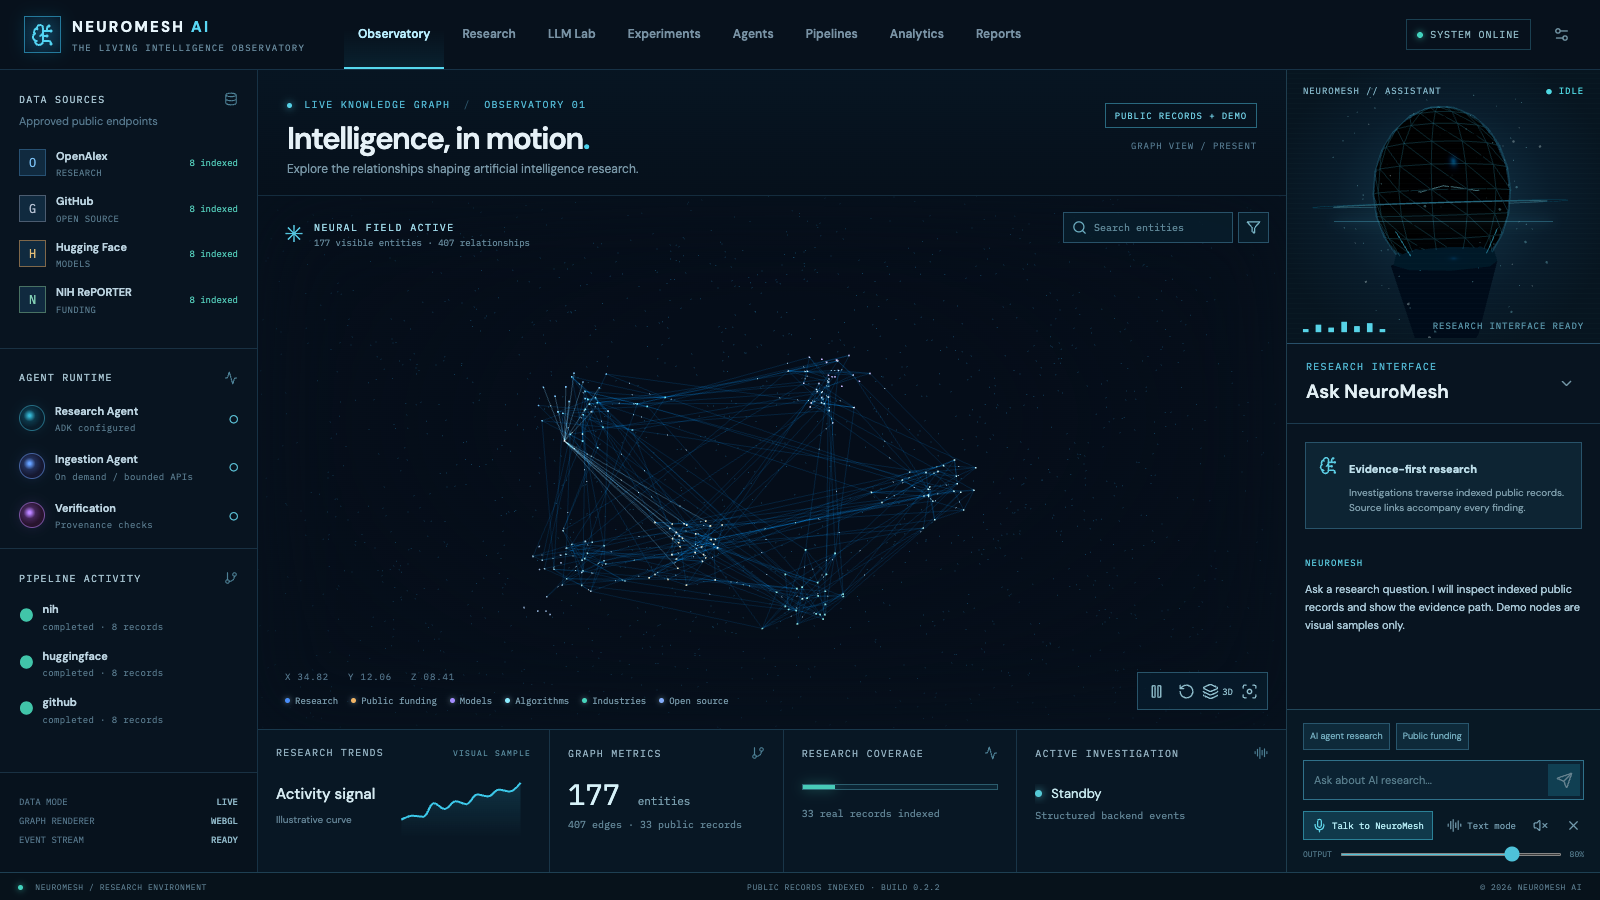
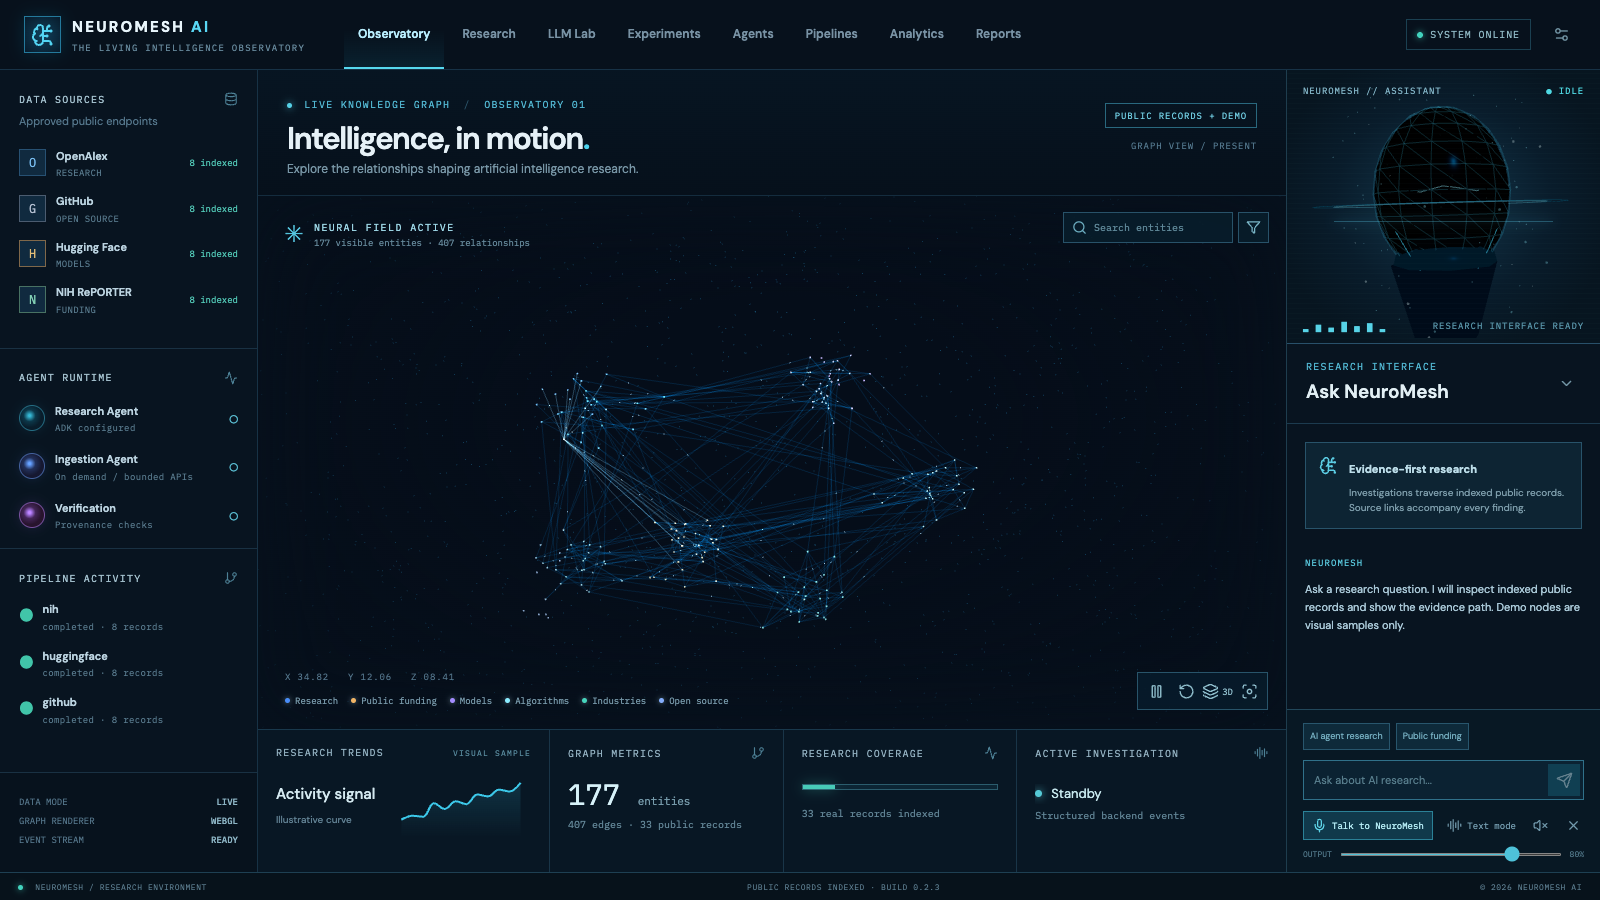
Keep microphone listening through transient recognition failures

Changed region(s): [[0.3438, 0.4044, 0.5938, 0.6844]]

diff --git a/apps/web/src/App.tsx b/apps/web/src/App.tsx
@@ -13,7 +13,7 @@ const kindLabels: Record<string,string>={PAPER:'Research',GRANT:'Public funding'
 const kindColors: Record<string,string>={PAPER:'#498df8',GRANT:'#f1b465',MODEL:'#a48cff',ALGORITHM:'#8cecff',INDUSTRY:'#46d4bc',REPOSITORY:'#84adfb',SCIENTIFIC_TOPIC:'#e3f4ff'};
 type Citation={label:string;url:string;source:string;entity_id:string};
 type Message={role:'user'|'assistant';text:string;citations?:Citation[]};
-type SpeechRecognitionLike={start:()=>void;stop:()=>void;lang?:string;onresult:((e:{results:{[key:number]:{[key:number]:{transcript:string}}}})=>void)|null;onerror:((e:{error?:string})=>void)|null;onend:(()=>void)|null};
+type SpeechRecognitionLike={start:()=>void;stop:()=>void;lang?:string;continuous?:boolean;interimResults?:boolean;onresult:((e:{resultIndex?:number;results:{[key:number]:{[key:number]:{transcript:string};isFinal?:boolean}}})=>void)|null;onerror:((e:{error?:string})=>void)|null;onend:(()=>void)|null};
 
 function useReducedMotion(){const [reduced,setReduced]=useState(window.matchMedia('(prefers-reduced-motion: reduce)').matches);useEffect(()=>{const q=window.matchMedia('(prefers-reduced-motion: reduce)');const f=()=>setReduced(q.matches);q.addEventListener('change',f);return()=>q.removeEventListener('change',f)},[]);return reduced;}
 
@@ -80,17 +80,19 @@ export default function App(){
       }
     }catch(error){if(controller.signal.aborted)return;setMessages(m=>[...m,{role:'assistant',text:error instanceof Error?error.message:'Investigation failed'}]);setAvatarState('error');setActiveStep('Investigation failed');setBusy(false)}
   };
-  const stop=()=>{abortRef.current?.abort();recognitionRef.current?.stop();speechStopRef.current?.();speechStopRef.current=null;window.speechSynthesis?.cancel();setSpeechLevel(0);setBusy(false);setAvatarState('interrupted');setActiveStep('Interrupted')};
+  const stop=()=>{abortRef.current?.abort();const recognition=recognitionRef.current;recognitionRef.current=null;recognition?.stop();speechStopRef.current?.();speechStopRef.current=null;window.speechSynthesis?.cancel();setSpeechLevel(0);setBusy(false);setAvatarState('interrupted');setActiveStep('Interrupted')};
   const microphone=()=>{
-    if(avatarState==='listening'){recognitionRef.current?.stop();setAvatarState('idle');return}
+    if(avatarState==='listening'){const recognition=recognitionRef.current;recognitionRef.current=null;recognition?.stop();setAvatarState('idle');setActiveStep('Microphone stopped');return}
     const w=window as typeof window & {SpeechRecognition?:new()=>SpeechRecognitionLike;webkitSpeechRecognition?:new()=>SpeechRecognitionLike};
     const Recognition=w.SpeechRecognition||w.webkitSpeechRecognition;
     if(!Recognition){setActiveStep('Speech recognition unavailable in this browser');setMessages(m=>[...m,{role:'assistant',text:'This browser does not support speech recognition. Try Chrome or type your question below.'}]);return}
-    stop();setVoiceMode(true);setMuted(false);const recognition=new Recognition();recognitionRef.current=recognition;recognition.lang='en-US';
-    recognition.onresult=e=>{const text=e.results[0]?.[0]?.transcript?.trim();if(!text)return;setAvatarState('thinking');void submit(text,true)};
-    recognition.onerror=e=>{setAvatarState('error');setActiveStep('Microphone request failed');setMessages(m=>[...m,{role:'assistant',text:e.error==='not-allowed'?'Microphone access was blocked. Allow it in your browser settings, then press Talk to NeuroMesh again.':'I could not hear that. Try the microphone again or type your question.'}])};
-    recognition.onend=()=>setAvatarState(s=>s==='listening'?'idle':s);
-    try{recognition.start();setAvatarState('listening');setActiveStep('Listening')}catch{setAvatarState('error');setActiveStep('Microphone unavailable');setMessages(m=>[...m,{role:'assistant',text:'Microphone could not start. Check browser permission and try again.'}])}
+    stop();setVoiceMode(true);setMuted(false);const recognition=new Recognition();recognitionRef.current=recognition;recognition.lang='en-US';recognition.continuous=true;recognition.interimResults=true;
+    const sessionStartedAt=Date.now();let startedAt=sessionStartedAt,earlyRestarts=0,silenceRestarts=0,noSpeech=false,failed=false;
+    const fail=(reason:string,message:string)=>{if(recognitionRef.current!==recognition)return;recognitionRef.current=null;failed=true;setAvatarState('error');setActiveStep(reason);setMessages(m=>[...m,{role:'assistant',text:message}])};
+    recognition.onresult=e=>{if(recognitionRef.current!==recognition)return;const result=e.results[e.resultIndex??0];const transcript=result?.[0]?.transcript?.trim();if(!transcript)return;if(result.isFinal===false){setActiveStep(`Hearing: ${transcript}`);return}recognitionRef.current=null;recognition.stop();setAvatarState('thinking');void submit(transcript,true)};
+    recognition.onerror=e=>{if(recognitionRef.current!==recognition)return;const code=e.error||'unknown';if(code==='no-speech'){noSpeech=true;setActiveStep('Listening — say your question');return}const messages:Record<string,string>={'not-allowed':'Microphone access was blocked. Allow this site to use your microphone in Chrome, then try again.','service-not-allowed':'Chrome speech recognition is disabled. Check Chrome microphone and speech permissions, then try again.','audio-capture':'Chrome could not find a working microphone. Check your Mac input device and Chrome microphone settings.','network':'Chrome speech recognition could not connect. Check your connection, then try again.'};fail(`Microphone error: ${code}`,messages[code]||`Speech recognition stopped (${code}). Try again or type your question.`)};
+    recognition.onend=()=>{if(recognitionRef.current!==recognition||failed)return;const premature=Date.now()-startedAt<2000;if((noSpeech&&silenceRestarts<6&&Date.now()-sessionStartedAt<60000)||(premature&&earlyRestarts<2)){if(noSpeech)silenceRestarts++;else earlyRestarts++;noSpeech=false;setActiveStep('Reconnecting microphone');window.setTimeout(()=>{if(recognitionRef.current!==recognition)return;try{startedAt=Date.now();recognition.start();setAvatarState('listening');setActiveStep('Listening — say your question')}catch{fail('Microphone unavailable','Chrome stopped speech recognition. Check microphone permission and try again.')}},250);return}fail('No speech captured','The microphone stopped without hearing a question. Check the selected input device, then press Talk to NeuroMesh again.')};
+    try{recognition.start();setAvatarState('listening');setActiveStep('Listening — say your question')}catch{fail('Microphone unavailable','Microphone could not start. Check browser permission and try again.')}
   };
   const trendOption={animation:!reducedMotion,grid:{left:5,right:5,top:10,bottom:4,containLabel:false},xAxis:{type:'category',show:false,data:['01','02','03','04','05','06','07','08','09','10','11','12']},yAxis:{type:'value',show:false},series:[{type:'line',smooth:.35,showSymbol:false,data:[18,22,21,35,29,37,34,44,42,49,47,56],lineStyle:{color:'#3cc8e9',width:2},areaStyle:{color:{type:'linear',x:0,y:0,x2:0,y2:1,colorStops:[{offset:0,color:'rgba(54,187,223,.24)'},{offset:1,color:'rgba(54,187,223,0)'}]}}}],tooltip:{show:false}};
 
@@ -119,6 +121,6 @@ export default function App(){
       <aside className={`right-rail ${chatOpen?'':'collapsed'}`}><Hologram state={avatarState} speechLevel={speechLevel} reducedMotion={reducedMotion}/><div className="assistant-heading"><div><div className="eyebrow">RESEARCH INTERFACE</div><h2>Ask NeuroMesh</h2></div><button className="icon-button" aria-label="Toggle conversation" onClick={()=>setChatOpen(v=>!v)}><ChevronDown size={17}/></button></div>{chatOpen&&<><div className="conversation"><div className="conversation-intro"><span className="intro-icon"><BrainCircuit size={19}/></span><div><strong>Evidence-first research</strong><p>Investigations traverse indexed public records. Source links accompany every finding.</p></div></div>{messages.map((m,i)=><div className={`message ${m.role}`} key={i}><span className="message-label">{m.role==='user'?'YOU':'NEUROMESH'}</span><p>{m.text}</p>{m.citations?.length?<div className="citations"><strong>SOURCES / {m.citations.length}</strong>{m.citations.map((c,j)=><a key={j} href={c.url} target="_blank" rel="noreferrer">{j+1}. {c.label} <span>↗</span></a>)}</div>:null}</div>)}<div ref={chatEnd}/></div><div className="chat-bottom"><div className="suggestions"><button onClick={()=>submit('Show indexed AI agent research')}>AI agent research</button><button onClick={()=>submit('Find public funding records')}>Public funding</button></div><form onSubmit={e=>{e.preventDefault();submit()}}><input aria-label="Research question" placeholder="Ask about AI research..." value={prompt} onChange={e=>setPrompt(e.target.value)} /><button type="submit" title="Send question" disabled={busy||!prompt.trim()}><Send size={17}/></button></form><div className="voice-controls"><button title={avatarState==='listening'?'Stop microphone':'Talk to NeuroMesh'} onClick={microphone}>{avatarState==='listening'?<MicOff size={15}/>:<Mic size={15}/>}<span>{avatarState==='listening'?'Listening':'Talk to NeuroMesh'}</span></button><button title="Toggle voice mode" onClick={()=>setVoiceMode(v=>!v)} className={voiceMode?'selected':''}><AudioLines size={15}/><span>{voiceMode?'Voice on':'Text mode'}</span></button><button title={muted?'Unmute assistant':'Mute assistant'} onClick={()=>setMuted(v=>!v)}>{muted?<VolumeX size={15}/>:<Volume2 size={15}/>}</button><button title="Stop speaking or investigating" onClick={stop}><X size={15}/></button></div><div className="volume-line"><span>OUTPUT</span><input aria-label="Voice volume" type="range" min="0" max="1" step="0.1" value={volume} onChange={e=>setVolume(Number(e.target.value))}/><span>{Math.round(volume*100)}%</span></div></div></>}
       </aside>
     </main>:<WorkspacePages page={page} data={data} status={status} operatorToken={operatorToken} onSelect={id=>{setSelected(id);setPage('Observatory')}}/>}
-    <footer className="statusbar"><span><i/> NEUROMESH / RESEARCH ENVIRONMENT</span><span>{data.mode==='demo'?'SEEDED DEMONSTRATION GRAPH':'PUBLIC RECORDS INDEXED'} · BUILD 0.2.2</span><span>© 2026 NEUROMESH AI</span></footer>
+    <footer className="statusbar"><span><i/> NEUROMESH / RESEARCH ENVIRONMENT</span><span>{data.mode==='demo'?'SEEDED DEMONSTRATION GRAPH':'PUBLIC RECORDS INDEXED'} · BUILD 0.2.3</span><span>© 2026 NEUROMESH AI</span></footer>
   </div>;
 }

diff --git a/apps/web/tests/observatory.spec.ts b/apps/web/tests/observatory.spec.ts
@@ -44,3 +44,53 @@ test('first microphone turn automatically enables spoken reply', async ({page})=
   await expect(page.getByTitle('Toggle voice mode')).toContainText('Voice on');
   await expect.poll(()=>page.evaluate(()=>(window as any).__spokenText||''),{timeout:15000}).not.toBe('');
 });
+
+test('microphone reconnects after a premature recognition end', async ({page})=>{
+  await page.addInitScript(()=>{
+    const state=window as any;
+    class FakeRecognition{
+      onresult:((event:any)=>void)|null=null;onerror:((event:any)=>void)|null=null;onend:(()=>void)|null=null;
+      start(){state.__starts=(state.__starts||0)+1;if(state.__starts===1)setTimeout(()=>this.onend?.(),10);else setTimeout(()=>this.onresult?.({results:[[{transcript:'Find public funding records',isFinal:true}]]}),10)}
+      stop(){this.onend?.()}
+    }
+    Object.defineProperty(window,'SpeechRecognition',{value:FakeRecognition,configurable:true});
+    Object.defineProperty(window,'speechSynthesis',{value:{cancel(){},speak(utterance:any){utterance.onstart?.();utterance.onend?.()}},configurable:true});
+  });
+  await page.goto('/');
+  await page.getByRole('button',{name:'Talk to NeuroMesh'}).click();
+  await expect.poll(()=>page.evaluate(()=>(window as any).__starts)).toBe(2);
+  await expect(page.locator('.message.user')).toContainText('Find public funding records');
+  await expect(page.locator('.message.assistant').last()).not.toContainText('could not hear');
+});
+
+test('microphone keeps listening after a no-speech timeout', async ({page})=>{
+  await page.addInitScript(()=>{
+    const state=window as any;
+    class FakeRecognition{
+      onresult:((event:any)=>void)|null=null;onerror:((event:any)=>void)|null=null;onend:(()=>void)|null=null;
+      start(){state.__starts=(state.__starts||0)+1;if(state.__starts===1)setTimeout(()=>{this.onerror?.({error:'no-speech'});this.onend?.()},10);else setTimeout(()=>this.onresult?.({results:[[{transcript:'Show indexed AI agent research',isFinal:true}]]}),10)}
+      stop(){}
+    }
+    Object.defineProperty(window,'SpeechRecognition',{value:FakeRecognition,configurable:true});
+    Object.defineProperty(window,'speechSynthesis',{value:{cancel(){},speak(utterance:any){utterance.onstart?.();utterance.onend?.()}},configurable:true});
+  });
+  await page.goto('/');
+  await page.getByRole('button',{name:'Talk to NeuroMesh'}).click();
+  await expect.poll(()=>page.evaluate(()=>(window as any).__starts)).toBe(2);
+  await expect(page.locator('.message.user')).toContainText('Show indexed AI agent research');
+});
+
+test('microphone failure reports the actual browser error', async ({page})=>{
+  await page.addInitScript(()=>{
+    class FakeRecognition{
+      onresult:null=null;onerror:((event:any)=>void)|null=null;onend:(()=>void)|null=null;
+      start(){setTimeout(()=>{this.onerror?.({error:'audio-capture'});this.onend?.()},10)}
+      stop(){}
+    }
+    Object.defineProperty(window,'SpeechRecognition',{value:FakeRecognition,configurable:true});
+  });
+  await page.goto('/');
+  await page.getByRole('button',{name:'Talk to NeuroMesh'}).click();
+  await expect(page.locator('.message.assistant').last()).toContainText('could not find a working microphone');
+  await expect(page.locator('.investigation-state')).toContainText('audio-capture');
+});

diff --git a/services/api/neuromesh_api/main.py b/services/api/neuromesh_api/main.py
@@ -29,7 +29,7 @@ async def lifespan(app: FastAPI):
     yield
 
 
-app = FastAPI(title='NeuroMesh AI API', version='0.2.2', lifespan=lifespan)
+app = FastAPI(title='NeuroMesh AI API', version='0.2.3', lifespan=lifespan)
 app.add_middleware(CORSMiddleware, allow_origins=[os.getenv('NEUROMESH_CORS_ORIGIN', 'http://localhost:5173')],
                    allow_methods=['GET','POST'], allow_headers=['Content-Type','X-Admin-Token'])
 _request_times: dict[str, deque[float]] = defaultdict(deque)

diff --git a/README.md b/README.md
@@ -10,7 +10,7 @@ This is a Playwright screenshot of the deployed React and FastAPI application on
 
 The Observatory renders an animated WebGL field, typed edges, directional particles, camera controls, search, filters, selection, a source inspector, and a procedural shadow hologram. Typed questions trigger real Server-Sent Events from indexed retrieval. Matched nodes illuminate, and answers include source links. The Research page searches indexed records; Pipelines displays actual ingestion jobs; Analytics shows live graph measurements and deterministic TF-IDF title clusters. Agents displays operator-only execution history when available. LLM Lab, Experiments, and Reports clearly report that no measured runs exist.
 
-Press **Talk to NeuroMesh** in the Observatory to request microphone access, submit a spoken question, and hear the answer without additional voice toggles. Browser speech recognition is available where supported; browser synthesis uses word-boundary timing. The optional operator-only Google Cloud Text-to-Speech path decodes generated audio in Web Audio and drives the hologram jaw from its PCM amplitude; stopping playback stops the animation. No raw microphone recording is stored by the app. Voice behavior depends on browser permissions and configured cloud access.
+Press **Talk to NeuroMesh** in the Observatory, allow microphone access, and speak a question. The app keeps listening through short recognition disconnects and silence timeouts; if Chrome cannot continue, it reports the specific permission, device, or network error. Browser synthesis uses word-boundary timing. The optional operator-only Google Cloud Text-to-Speech path decodes generated audio in Web Audio and drives the hologram jaw from its PCM amplitude; stopping playback stops the animation. No raw microphone recording is stored by the app. Voice behavior depends on browser permissions and configured cloud access.
 
 ## Architecture
 
@@ -81,7 +81,7 @@ npm run test:e2e       # with the local API and web servers running
 node scripts/capture_observatory.mjs
 ```
 
-The cloud four-source sync returned eight records per source. Automated checks cover API authorization, provenance, idempotent ingestion, repeatable graph metrics, deterministic title clusters, PostgreSQL integration, Observatory rendering, a cited investigation, Research navigation, Analytics display, and a simulated first microphone turn. Playwright verified the public Cloud Run page, 32 research cards, Analytics fingerprint, a cited investigation, and zero page errors; it captured the screenshot above. A bounded operator test activated both ADK agents, recorded four usage events, returned a citation, and generated WAV speech. Chrome observed 30 PCM analyser reads with nonzero amplitude during the hologram's speaking state and a successful interruption. These are integration checks, not an evaluation of answer quality or physical microphone hardware.
+The cloud four-source sync returned eight records per source. Automated checks cover API authorization, provenance, idempotent ingestion, repeatable graph metrics, deterministic title clusters, PostgreSQL integration, Observatory rendering, a cited investigation, Research navigation, Analytics display, microphone reconnection and error reporting, and a simulated spoken turn. Playwright verified the public Cloud Run page, 32 research cards, Analytics fingerprint, a cited investigation, and zero page errors; it captured the screenshot above. A bounded operator test activated both ADK agents, recorded four usage events, returned a citation, and generated WAV speech. Chrome observed 30 PCM analyser reads with nonzero amplitude during the hologram's speaking state and a successful interruption. In the user's Chrome profile, a one-time microphone permission test showed the live app staying in its listening state; no spoken question was captured during that test. These are integration checks, not an evaluation of answer quality or complete physical microphone hardware validation.
 
 ## Limitations and next work
 

diff --git a/docs/architecture/gcp-deployment.md b/docs/architecture/gcp-deployment.md
@@ -12,7 +12,7 @@ gcloud config set project moesautomationweekly
 cd infrastructure/terraform
 terraform init
 terraform validate
-terraform plan -var project_id=moesautomationweekly -var deploy_app=true -var image=us-central1-docker.pkg.dev/moesautomationweekly/neuromesh/observatory@sha256:62f416498436f3861e21e161341d37f8aec0f4db60796f4829dcf5e23a691b97 -var enable_adk=true -var model_id=gemini-3.5-flash-lite -var model_location=global -var enable_cloud_tts=true
+terraform plan -var project_id=moesautomationweekly -var deploy_app=true -var image=us-central1-docker.pkg.dev/moesautomationweekly/neuromesh/observatory@sha256:aff2cc1ef3c8df39417570645b50981e2ccf9ddb958ae4227f3b27dd2eb85104 -var enable_adk=true -var model_id=gemini-3.5-flash-lite -var model_location=global -var enable_cloud_tts=true
 ```
 
 An empty state originally showed 14 additions and zero changes or deletions. The live state now includes an additional repository-scoped Cloud Build writer grant; the repeat plan above should show **zero changes**. The SQL instance is deletion protected and explicitly uses Cloud SQL Enterprise edition, required for `db-f1-micro` on PostgreSQL 16. Store Terraform state privately; it contains generated database and operator secrets. The local state and backup files are ignored by Git and restricted to the owner. Before repeated team use, migrate state to a private encrypted backend with limited access.
@@ -32,7 +32,7 @@ This creates a dedicated database, repository, service account, Secret Manager e
 From the repository root, use the repository URI from Terraform output. Build the multi-stage Dockerfile with Cloud Build, then use the pushed digest for Terraform deployment:
 
 ```bash
-IMAGE=us-central1-docker.pkg.dev/moesautomationweekly/neuromesh/observatory:0.2.2
+IMAGE=us-central1-docker.pkg.dev/moesautomationweekly/neuromesh/observatory:0.2.3
 gcloud builds submit --project moesautomationweekly --config cloudbuild.yaml --substitutions=_IMAGE=$IMAGE .
 cd infrastructure/terraform
 terraform plan -var project_id=moesautomationweekly -var deploy_app=true -var image=IMAGE_DIGEST_URI
@@ -50,7 +50,7 @@ The initial Cloud SQL database contained the labeled visual demonstration layer.
 
 The current deployment sets `enable_adk=true`, `model_id=gemini-3.5-flash-lite`, `model_location=global`, and `enable_cloud_tts=true`. The model identifier and endpoint were checked against current Google documentation; verify availability again before changing them. The runtime service account has `roles/aiplatform.user`, and the selected voice is `en-US-Standard-J`, a lower-cost male Standard voice. Both provider endpoints are restricted to operator requests with persistent daily usage reservations. A bounded deployed test passed for both providers, including audio-reactive browser playback and interruption.
 
-The browser microphone path uses browser speech recognition; Cloud TTS supplies generated playback audio and jaw amplitude. Verify the voice path on the deployed URL in a supported browser before describing it as production validated.
+The browser microphone path uses browser speech recognition; Cloud TTS supplies generated playback audio and jaw amplitude. The app retries a premature recognition disconnect twice and reports the browser's error code and device guidance. Browser speech recognition may still fail if Chrome cannot access a working input device or its recognition service. Verify the voice path on the deployed URL with a physical microphone before describing it as production validated.
 
 ## Operational checks
 
